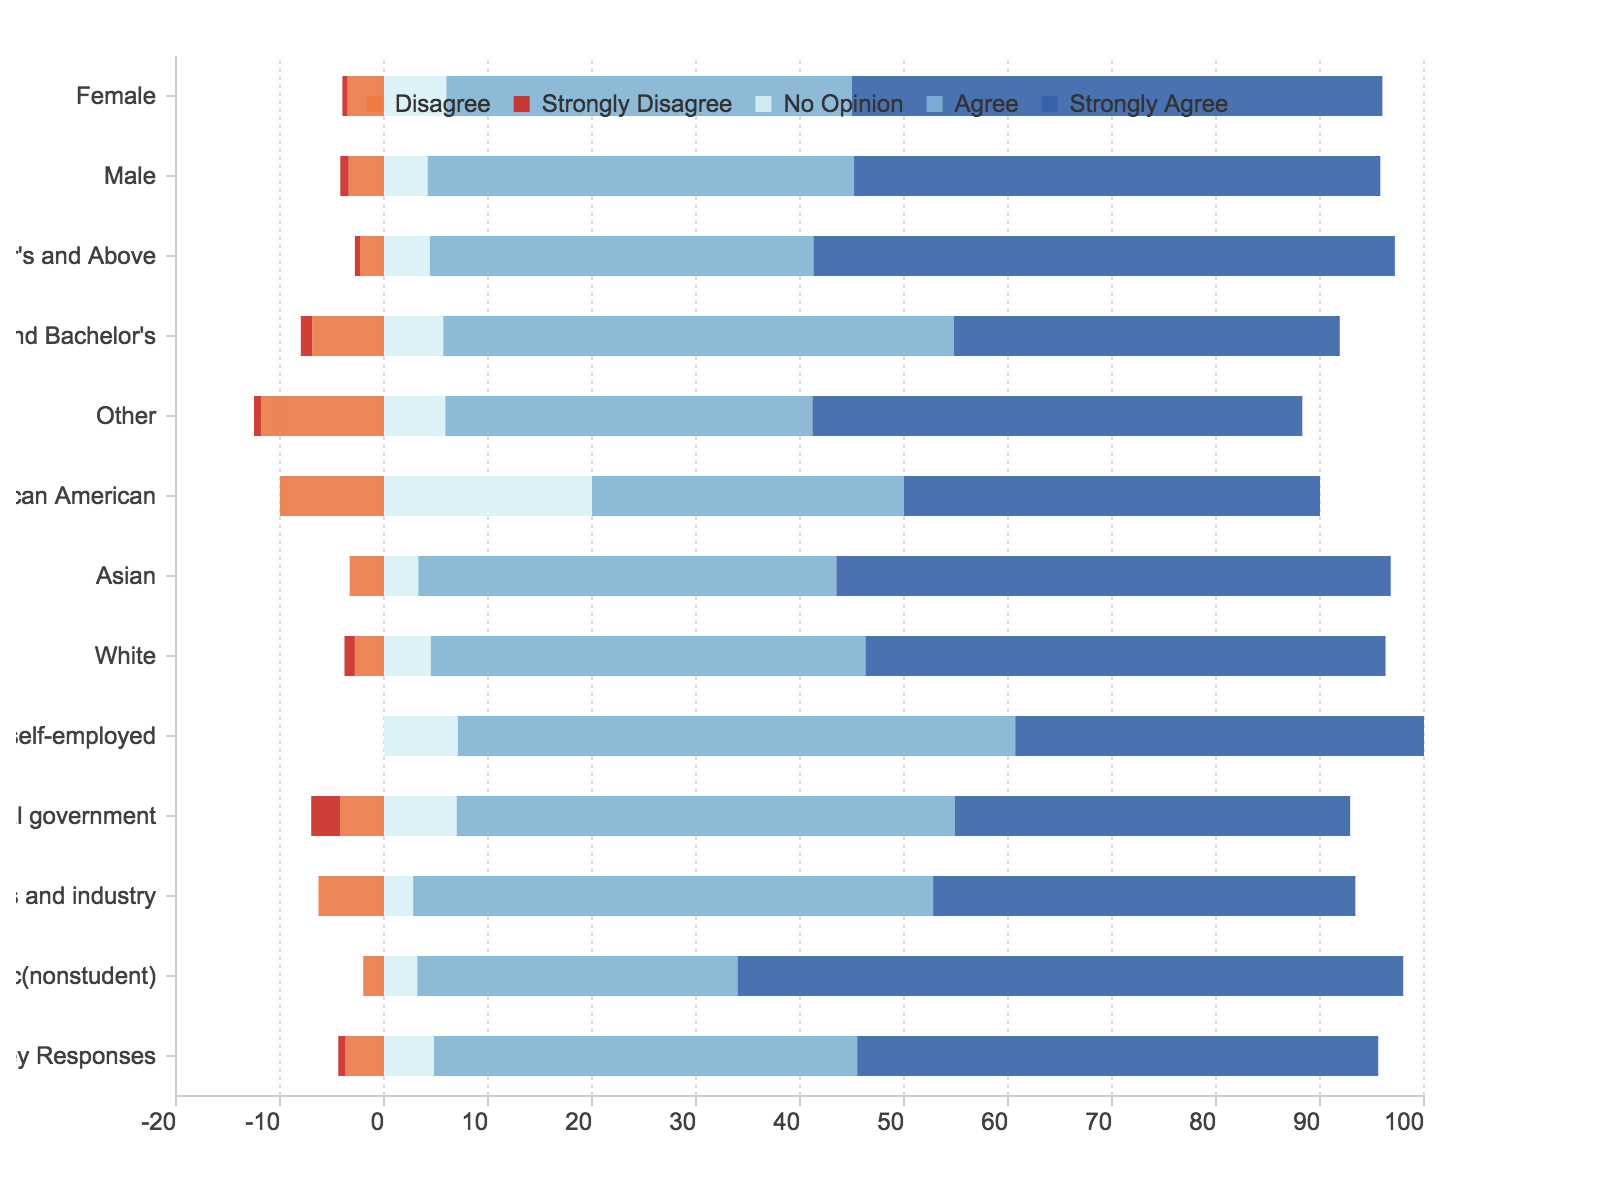
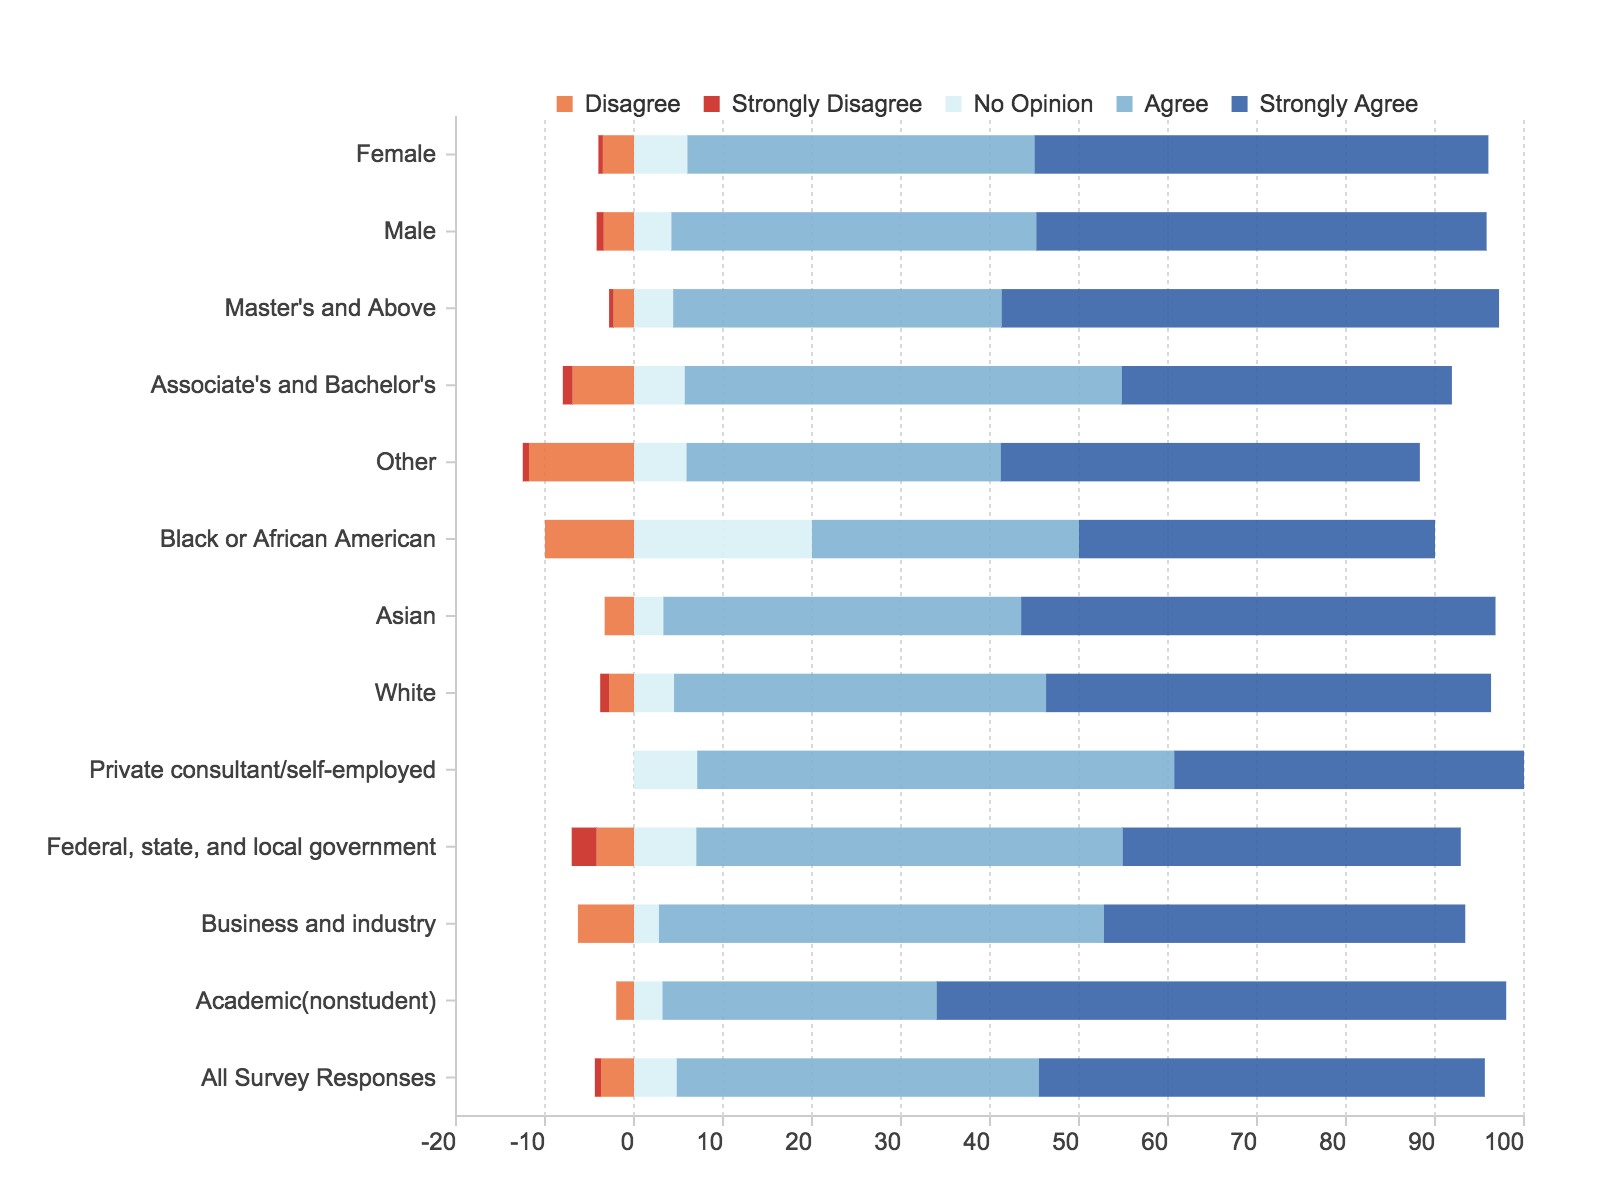
fixing padding, etc.

diff --git a/demos/index.html b/demos/index.html
@@ -13,8 +13,8 @@
   /* global GLOBAL_DATA */
   /* eslint-disable no-unused-vars */
   const GLOBAL_DATA = {
-    plotById: { 'area-stack-plot': { id: 'area-stack-plot', name: 'Area Stack Plot', path: './area-stack.html', thumbnail: './assets/screenshots/800x600/area-stack.png' }, 'area-plot': { id: 'area-plot', name: 'Area Plot', path: './area.html', thumbnail: './assets/screenshots/800x600/area.png' }, 'stream-graph': { id: 'stream-graph', name: 'Stream Graph', path: './stream-graph.html', thumbnail: './assets/screenshots/800x600/stream-graph.png' }, 'bar-dodge-no-margin': { id: 'bar-dodge-no-margin', name: 'Bar Dodge No Margin', path: './bar-dodge-no-margin.html', thumbnail: './assets/screenshots/800x600/bar-dodge-no-margin.png' }, 'bar-dodge-plot': { id: 'bar-dodge-plot', name: 'Bar Dodge Plot', path: './bar-dodge.html', thumbnail: './assets/screenshots/800x600/bar-dodge.png' }, 'bar-stack-percent': { id: 'bar-stack-percent', name: 'Bar Stack Percent', path: './bar-stack-percent.html', thumbnail: './assets/screenshots/800x600/bar-stack-percent.png' }, 'bar-stack-plot': { id: 'bar-stack-plot', name: 'Bar Stack Plot', path: './bar-stack.html', thumbnail: './assets/screenshots/800x600/bar-stack.png' }, 'bar-plot': { id: 'bar-plot', name: 'Bar Plot', path: './bar.html', thumbnail: './assets/screenshots/800x600/bar.png' }, 'daily-temperatures-in-boston': { id: 'daily-temperatures-in-boston', name: 'Daily Temperatures in Boston', path: './daily-temperatures-in-boston.html', thumbnail: './assets/screenshots/800x600/daily-temperatures-in-boston.png' }, 'histogram-binning': { id: 'histogram-binning', name: 'Histogram Binning', path: './histogram-binning.html', thumbnail: './assets/screenshots/800x600/histogram-binning.png' }, 'interval-with-labels': { id: 'interval-with-labels', name: 'Interval with labels', path: './interval-labels.html', thumbnail: './assets/screenshots/800x600/interval-labels.png' }, 'polar-interval-plot': { id: 'polar-interval-plot', name: 'Polar Interval Plot', path: './polar.html', thumbnail: './assets/screenshots/800x600/polar.png' }, 'rose-plot': { id: 'rose-plot', name: 'Rose Plot', path: './rose.html', thumbnail: './assets/screenshots/800x600/rose.png' }, 'triangle-column-plot': { id: 'triangle-column-plot', name: 'Triangle Column Plot', path: './triangle-column.html', thumbnail: './assets/screenshots/800x600/triangle-column.png' }, 'day-hour-heatmap': { id: 'day-hour-heatmap', name: 'Day/Hour Heatmap', path: './day-hour-heatmap.html', thumbnail: './assets/screenshots/800x600/day-hour-heatmap.png' }, 'geo-projections': { id: 'geo-projections', name: 'Geo Projections', path: './geo-projections.html', thumbnail: './assets/screenshots/800x600/geo-projections.png' }, 'hexagon-binning': { id: 'hexagon-binning', name: 'Hexagon Binning', path: './hexagon-binning.html', thumbnail: './assets/screenshots/800x600/hexagon-binning.png' }, 'color-map': { id: 'color-map', name: 'Color Map ', path: './polygon.html', thumbnail: './assets/screenshots/800x600/polygon.png' }, 'rectangle-binning': { id: 'rectangle-binning', name: 'Rectangle Binning', path: './rectangle-binning.html', thumbnail: './assets/screenshots/800x600/rectangle-binning.png' }, 'treemap-tiles': { id: 'treemap-tiles', name: 'Treemap Tiles', path: './treemap-tiles.html', thumbnail: './assets/screenshots/800x600/treemap-tiles.png' }, 'double-line-plot': { id: 'double-line-plot', name: 'Double Line Plot', path: './double-line.html', thumbnail: './assets/screenshots/800x600/double-line.png' }, 'line-plot-with-time': { id: 'line-plot-with-time', name: 'Line Plot with Time', path: './line-time.html', thumbnail: './assets/screenshots/800x600/line-time.png' }, 'line-plot': { id: 'line-plot', name: 'Line Plot', path: './line.html', thumbnail: './assets/screenshots/800x600/line.png' }, 'smooth-line-plot': { id: 'smooth-line-plot', name: 'Smooth Line Plot', path: './smooth-line.html', thumbnail: './assets/screenshots/800x600/smooth-line.png' }, 'funnel-plot': { id: 'funnel-plot', name: 'Funnel Plot', path: './funnel.html', thumbnail: './assets/screenshots/800x600/funnel.png' }, helix: { id: 'helix', name: 'Helix', path: './helix.html', thumbnail: './assets/screenshots/800x600/helix.png' }, 'multiple-plot': { id: 'multiple-plot', name: 'Multiple Plot', path: './multiple-chart.html', thumbnail: './assets/screenshots/800x600/multiple-chart.png' }, 'pie-ring-plot': { id: 'pie-ring-plot', name: 'Pie Ring Plot', path: './pie-ring.html', thumbnail: './assets/screenshots/800x600/pie-ring.png' }, 'pie-plot': { id: 'pie-plot', name: 'Pie Plot', path: './pie.html', thumbnail: './assets/screenshots/800x600/pie.png' }, 'radar-plot': { id: 'radar-plot', name: 'Radar Plot', path: './radar.html', thumbnail: './assets/screenshots/800x600/radar.png' }, 'scatter-plot': { id: 'scatter-plot', name: 'Scatter Plot', path: './scatter.html', thumbnail: './assets/screenshots/800x600/scatter.png' }, 'tag-cloud': { id: 'tag-cloud', name: 'Tag Cloud', path: './tag-cloud.html', thumbnail: './assets/screenshots/800x600/tag-cloud.png' } },
-    plotsByGeometry: { area: [{ id: 'area-stack-plot', name: 'Area Stack Plot', path: './area-stack.html', thumbnail: './assets/screenshots/800x600/area-stack.png' }, { id: 'area-plot', name: 'Area Plot', path: './area.html', thumbnail: './assets/screenshots/800x600/area.png' }, { id: 'stream-graph', name: 'Stream Graph', path: './stream-graph.html', thumbnail: './assets/screenshots/800x600/stream-graph.png' }], interval: [{ id: 'bar-dodge-no-margin', name: 'Bar Dodge No Margin', path: './bar-dodge-no-margin.html', thumbnail: './assets/screenshots/800x600/bar-dodge-no-margin.png' }, { id: 'bar-dodge-plot', name: 'Bar Dodge Plot', path: './bar-dodge.html', thumbnail: './assets/screenshots/800x600/bar-dodge.png' }, { id: 'bar-stack-percent', name: 'Bar Stack Percent', path: './bar-stack-percent.html', thumbnail: './assets/screenshots/800x600/bar-stack-percent.png' }, { id: 'bar-stack-plot', name: 'Bar Stack Plot', path: './bar-stack.html', thumbnail: './assets/screenshots/800x600/bar-stack.png' }, { id: 'bar-plot', name: 'Bar Plot', path: './bar.html', thumbnail: './assets/screenshots/800x600/bar.png' }, { id: 'daily-temperatures-in-boston', name: 'Daily Temperatures in Boston', path: './daily-temperatures-in-boston.html', thumbnail: './assets/screenshots/800x600/daily-temperatures-in-boston.png' }, { id: 'histogram-binning', name: 'Histogram Binning', path: './histogram-binning.html', thumbnail: './assets/screenshots/800x600/histogram-binning.png' }, { id: 'interval-with-labels', name: 'Interval with labels', path: './interval-labels.html', thumbnail: './assets/screenshots/800x600/interval-labels.png' }, { id: 'polar-interval-plot', name: 'Polar Interval Plot', path: './polar.html', thumbnail: './assets/screenshots/800x600/polar.png' }, { id: 'rose-plot', name: 'Rose Plot', path: './rose.html', thumbnail: './assets/screenshots/800x600/rose.png' }, { id: 'triangle-column-plot', name: 'Triangle Column Plot', path: './triangle-column.html', thumbnail: './assets/screenshots/800x600/triangle-column.png' }], polygon: [{ id: 'day-hour-heatmap', name: 'Day/Hour Heatmap', path: './day-hour-heatmap.html', thumbnail: './assets/screenshots/800x600/day-hour-heatmap.png' }, { id: 'geo-projections', name: 'Geo Projections', path: './geo-projections.html', thumbnail: './assets/screenshots/800x600/geo-projections.png' }, { id: 'hexagon-binning', name: 'Hexagon Binning', path: './hexagon-binning.html', thumbnail: './assets/screenshots/800x600/hexagon-binning.png' }, { id: 'color-map', name: 'Color Map ', path: './polygon.html', thumbnail: './assets/screenshots/800x600/polygon.png' }, { id: 'rectangle-binning', name: 'Rectangle Binning', path: './rectangle-binning.html', thumbnail: './assets/screenshots/800x600/rectangle-binning.png' }, { id: 'treemap-tiles', name: 'Treemap Tiles', path: './treemap-tiles.html', thumbnail: './assets/screenshots/800x600/treemap-tiles.png' }], line: [{ id: 'double-line-plot', name: 'Double Line Plot', path: './double-line.html', thumbnail: './assets/screenshots/800x600/double-line.png' }, { id: 'line-plot-with-time', name: 'Line Plot with Time', path: './line-time.html', thumbnail: './assets/screenshots/800x600/line-time.png' }, { id: 'line-plot', name: 'Line Plot', path: './line.html', thumbnail: './assets/screenshots/800x600/line.png' }, { id: 'smooth-line-plot', name: 'Smooth Line Plot', path: './smooth-line.html', thumbnail: './assets/screenshots/800x600/smooth-line.png' }], funnel: [{ id: 'funnel-plot', name: 'Funnel Plot', path: './funnel.html', thumbnail: './assets/screenshots/800x600/funnel.png' }], helix: [{ id: 'helix', name: 'Helix', path: './helix.html', thumbnail: './assets/screenshots/800x600/helix.png' }], multiple: [{ id: 'multiple-plot', name: 'Multiple Plot', path: './multiple-chart.html', thumbnail: './assets/screenshots/800x600/multiple-chart.png' }], pie: [{ id: 'pie-ring-plot', name: 'Pie Ring Plot', path: './pie-ring.html', thumbnail: './assets/screenshots/800x600/pie-ring.png' }, { id: 'pie-plot', name: 'Pie Plot', path: './pie.html', thumbnail: './assets/screenshots/800x600/pie.png' }], radar: [{ id: 'radar-plot', name: 'Radar Plot', path: './radar.html', thumbnail: './assets/screenshots/800x600/radar.png' }], point: [{ id: 'scatter-plot', name: 'Scatter Plot', path: './scatter.html', thumbnail: './assets/screenshots/800x600/scatter.png' }, { id: 'tag-cloud', name: 'Tag Cloud', path: './tag-cloud.html', thumbnail: './assets/screenshots/800x600/tag-cloud.png' }] }
+    plotById: { 'area-stack-plot': { id: 'area-stack-plot', name: 'Area Stack Plot', path: './area-stack.html', thumbnail: './assets/screenshots/800x600/area-stack.png' }, 'area-plot': { id: 'area-plot', name: 'Area Plot', path: './area.html', thumbnail: './assets/screenshots/800x600/area.png' }, 'stream-graph': { id: 'stream-graph', name: 'Stream Graph', path: './stream-graph.html', thumbnail: './assets/screenshots/800x600/stream-graph.png' }, 'bar-dodge-no-margin': { id: 'bar-dodge-no-margin', name: 'Bar Dodge No Margin', path: './bar-dodge-no-margin.html', thumbnail: './assets/screenshots/800x600/bar-dodge-no-margin.png' }, 'bar-dodge-plot': { id: 'bar-dodge-plot', name: 'Bar Dodge Plot', path: './bar-dodge.html', thumbnail: './assets/screenshots/800x600/bar-dodge.png' }, 'bar-stack-percent': { id: 'bar-stack-percent', name: 'Bar Stack Percent', path: './bar-stack-percent.html', thumbnail: './assets/screenshots/800x600/bar-stack-percent.png' }, 'bar-stack-plot': { id: 'bar-stack-plot', name: 'Bar Stack Plot', path: './bar-stack.html', thumbnail: './assets/screenshots/800x600/bar-stack.png' }, 'bar-plot': { id: 'bar-plot', name: 'Bar Plot', path: './bar.html', thumbnail: './assets/screenshots/800x600/bar.png' }, 'daily-temperatures-in-boston': { id: 'daily-temperatures-in-boston', name: 'Daily Temperatures in Boston', path: './daily-temperatures-in-boston.html', thumbnail: './assets/screenshots/800x600/daily-temperatures-in-boston.png' }, 'histogram-binning': { id: 'histogram-binning', name: 'Histogram Binning', path: './histogram-binning.html', thumbnail: './assets/screenshots/800x600/histogram-binning.png' }, 'interval-with-labels': { id: 'interval-with-labels', name: 'Interval with labels', path: './interval-labels.html', thumbnail: './assets/screenshots/800x600/interval-labels.png' }, 'polar-interval-plot': { id: 'polar-interval-plot', name: 'Polar Interval Plot', path: './polar.html', thumbnail: './assets/screenshots/800x600/polar.png' }, 'rose-plot': { id: 'rose-plot', name: 'Rose Plot', path: './rose.html', thumbnail: './assets/screenshots/800x600/rose.png' }, 'triangle-column-plot': { id: 'triangle-column-plot', name: 'Triangle Column Plot', path: './triangle-column.html', thumbnail: './assets/screenshots/800x600/triangle-column.png' }, 'color-map': { id: 'color-map', name: 'Color Map', path: './color-map.html', thumbnail: './assets/screenshots/800x600/color-map.png' }, 'day-hour-heatmap': { id: 'day-hour-heatmap', name: 'Day/Hour Heatmap', path: './day-hour-heatmap.html', thumbnail: './assets/screenshots/800x600/day-hour-heatmap.png' }, 'geo-projections': { id: 'geo-projections', name: 'Geo Projections', path: './geo-projections.html', thumbnail: './assets/screenshots/800x600/geo-projections.png' }, 'hexagon-binning': { id: 'hexagon-binning', name: 'Hexagon Binning', path: './hexagon-binning.html', thumbnail: './assets/screenshots/800x600/hexagon-binning.png' }, 'rectangle-binning': { id: 'rectangle-binning', name: 'Rectangle Binning', path: './rectangle-binning.html', thumbnail: './assets/screenshots/800x600/rectangle-binning.png' }, 'treemap-tiles': { id: 'treemap-tiles', name: 'Treemap Tiles', path: './treemap-tiles.html', thumbnail: './assets/screenshots/800x600/treemap-tiles.png' }, 'double-line-plot': { id: 'double-line-plot', name: 'Double Line Plot', path: './double-line.html', thumbnail: './assets/screenshots/800x600/double-line.png' }, 'line-plot-with-time': { id: 'line-plot-with-time', name: 'Line Plot with Time', path: './line-time.html', thumbnail: './assets/screenshots/800x600/line-time.png' }, 'line-plot': { id: 'line-plot', name: 'Line Plot', path: './line.html', thumbnail: './assets/screenshots/800x600/line.png' }, 'smooth-line-plot': { id: 'smooth-line-plot', name: 'Smooth Line Plot', path: './smooth-line.html', thumbnail: './assets/screenshots/800x600/smooth-line.png' }, 'funnel-plot': { id: 'funnel-plot', name: 'Funnel Plot', path: './funnel.html', thumbnail: './assets/screenshots/800x600/funnel.png' }, helix: { id: 'helix', name: 'Helix', path: './helix.html', thumbnail: './assets/screenshots/800x600/helix.png' }, 'multiple-plot': { id: 'multiple-plot', name: 'Multiple Plot', path: './multiple-chart.html', thumbnail: './assets/screenshots/800x600/multiple-chart.png' }, 'pie-ring-plot': { id: 'pie-ring-plot', name: 'Pie Ring Plot', path: './pie-ring.html', thumbnail: './assets/screenshots/800x600/pie-ring.png' }, 'pie-plot': { id: 'pie-plot', name: 'Pie Plot', path: './pie.html', thumbnail: './assets/screenshots/800x600/pie.png' }, 'radar-plot': { id: 'radar-plot', name: 'Radar Plot', path: './radar.html', thumbnail: './assets/screenshots/800x600/radar.png' }, 'scatter-plot': { id: 'scatter-plot', name: 'Scatter Plot', path: './scatter.html', thumbnail: './assets/screenshots/800x600/scatter.png' }, 'tag-cloud': { id: 'tag-cloud', name: 'Tag Cloud', path: './tag-cloud.html', thumbnail: './assets/screenshots/800x600/tag-cloud.png' } },
+    plotsByGeometry: { area: [{ id: 'area-stack-plot', name: 'Area Stack Plot', path: './area-stack.html', thumbnail: './assets/screenshots/800x600/area-stack.png' }, { id: 'area-plot', name: 'Area Plot', path: './area.html', thumbnail: './assets/screenshots/800x600/area.png' }, { id: 'stream-graph', name: 'Stream Graph', path: './stream-graph.html', thumbnail: './assets/screenshots/800x600/stream-graph.png' }], interval: [{ id: 'bar-dodge-no-margin', name: 'Bar Dodge No Margin', path: './bar-dodge-no-margin.html', thumbnail: './assets/screenshots/800x600/bar-dodge-no-margin.png' }, { id: 'bar-dodge-plot', name: 'Bar Dodge Plot', path: './bar-dodge.html', thumbnail: './assets/screenshots/800x600/bar-dodge.png' }, { id: 'bar-stack-percent', name: 'Bar Stack Percent', path: './bar-stack-percent.html', thumbnail: './assets/screenshots/800x600/bar-stack-percent.png' }, { id: 'bar-stack-plot', name: 'Bar Stack Plot', path: './bar-stack.html', thumbnail: './assets/screenshots/800x600/bar-stack.png' }, { id: 'bar-plot', name: 'Bar Plot', path: './bar.html', thumbnail: './assets/screenshots/800x600/bar.png' }, { id: 'daily-temperatures-in-boston', name: 'Daily Temperatures in Boston', path: './daily-temperatures-in-boston.html', thumbnail: './assets/screenshots/800x600/daily-temperatures-in-boston.png' }, { id: 'histogram-binning', name: 'Histogram Binning', path: './histogram-binning.html', thumbnail: './assets/screenshots/800x600/histogram-binning.png' }, { id: 'interval-with-labels', name: 'Interval with labels', path: './interval-labels.html', thumbnail: './assets/screenshots/800x600/interval-labels.png' }, { id: 'polar-interval-plot', name: 'Polar Interval Plot', path: './polar.html', thumbnail: './assets/screenshots/800x600/polar.png' }, { id: 'rose-plot', name: 'Rose Plot', path: './rose.html', thumbnail: './assets/screenshots/800x600/rose.png' }, { id: 'triangle-column-plot', name: 'Triangle Column Plot', path: './triangle-column.html', thumbnail: './assets/screenshots/800x600/triangle-column.png' }], polygon: [{ id: 'color-map', name: 'Color Map', path: './color-map.html', thumbnail: './assets/screenshots/800x600/color-map.png' }, { id: 'day-hour-heatmap', name: 'Day/Hour Heatmap', path: './day-hour-heatmap.html', thumbnail: './assets/screenshots/800x600/day-hour-heatmap.png' }, { id: 'geo-projections', name: 'Geo Projections', path: './geo-projections.html', thumbnail: './assets/screenshots/800x600/geo-projections.png' }, { id: 'hexagon-binning', name: 'Hexagon Binning', path: './hexagon-binning.html', thumbnail: './assets/screenshots/800x600/hexagon-binning.png' }, { id: 'rectangle-binning', name: 'Rectangle Binning', path: './rectangle-binning.html', thumbnail: './assets/screenshots/800x600/rectangle-binning.png' }, { id: 'treemap-tiles', name: 'Treemap Tiles', path: './treemap-tiles.html', thumbnail: './assets/screenshots/800x600/treemap-tiles.png' }], line: [{ id: 'double-line-plot', name: 'Double Line Plot', path: './double-line.html', thumbnail: './assets/screenshots/800x600/double-line.png' }, { id: 'line-plot-with-time', name: 'Line Plot with Time', path: './line-time.html', thumbnail: './assets/screenshots/800x600/line-time.png' }, { id: 'line-plot', name: 'Line Plot', path: './line.html', thumbnail: './assets/screenshots/800x600/line.png' }, { id: 'smooth-line-plot', name: 'Smooth Line Plot', path: './smooth-line.html', thumbnail: './assets/screenshots/800x600/smooth-line.png' }], funnel: [{ id: 'funnel-plot', name: 'Funnel Plot', path: './funnel.html', thumbnail: './assets/screenshots/800x600/funnel.png' }], helix: [{ id: 'helix', name: 'Helix', path: './helix.html', thumbnail: './assets/screenshots/800x600/helix.png' }], multiple: [{ id: 'multiple-plot', name: 'Multiple Plot', path: './multiple-chart.html', thumbnail: './assets/screenshots/800x600/multiple-chart.png' }], pie: [{ id: 'pie-ring-plot', name: 'Pie Ring Plot', path: './pie-ring.html', thumbnail: './assets/screenshots/800x600/pie-ring.png' }, { id: 'pie-plot', name: 'Pie Plot', path: './pie.html', thumbnail: './assets/screenshots/800x600/pie.png' }], radar: [{ id: 'radar-plot', name: 'Radar Plot', path: './radar.html', thumbnail: './assets/screenshots/800x600/radar.png' }], point: [{ id: 'scatter-plot', name: 'Scatter Plot', path: './scatter.html', thumbnail: './assets/screenshots/800x600/scatter.png' }, { id: 'tag-cloud', name: 'Tag Cloud', path: './tag-cloud.html', thumbnail: './assets/screenshots/800x600/tag-cloud.png' }] }
   };
 </script>
   <div class="main">
@@ -71,13 +71,13 @@
     </h3>
     <ul class="sub-menus">
       <li class="sub-menu-item">
+            <a href="#/color-map">Color Map</a>
+          </li><li class="sub-menu-item">
             <a href="#/day-hour-heatmap">Day/Hour Heatmap</a>
           </li><li class="sub-menu-item">
             <a href="#/geo-projections">Geo Projections</a>
           </li><li class="sub-menu-item">
             <a href="#/hexagon-binning">Hexagon Binning</a>
-          </li><li class="sub-menu-item">
-            <a href="#/color-map">Color Map </a>
           </li><li class="sub-menu-item">
             <a href="#/rectangle-binning">Rectangle Binning</a>
           </li><li class="sub-menu-item">
@@ -249,6 +249,11 @@
     </h3>
     <ul class="thumbnails-container">
       <li class="thumbnail-item">
+            <a href="#/color-map">
+              <img class="thumbnail" src="./assets/screenshots/800x600/color-map.png">
+              <div class="description">Color Map</div>
+            </a>
+          </li><li class="thumbnail-item">
             <a href="#/day-hour-heatmap">
               <img class="thumbnail" src="./assets/screenshots/800x600/day-hour-heatmap.png">
               <div class="description">Day/Hour Heatmap</div>
@@ -262,11 +267,6 @@
             <a href="#/hexagon-binning">
               <img class="thumbnail" src="./assets/screenshots/800x600/hexagon-binning.png">
               <div class="description">Hexagon Binning</div>
-            </a>
-          </li><li class="thumbnail-item">
-            <a href="#/color-map">
-              <img class="thumbnail" src="./assets/screenshots/800x600/polygon.png">
-              <div class="description">Color Map </div>
             </a>
           </li><li class="thumbnail-item">
             <a href="#/rectangle-binning">

diff --git a/demos/color-map.html b/demos/color-map.html
@@ -7,7 +7,7 @@
   <meta http-equiv="X-UA-Compatible" content="ie=edge">
   <meta name="geometry" content="polygon">
   <link rel="stylesheet" href="./assets/common.css">
-  <title>Color Map </title>
+  <title>Color Map</title>
 </head>
 
 <body>
@@ -47,7 +47,8 @@
       animate: false,
       container: 'canvas',
       forceFit: true,
-      height: window.innerHeight
+      height: window.innerHeight,
+      padding: [ 30, 120, 50, 100 ]
     });
     const defs = {
       from: {

diff --git a/demos/bar-stack.html b/demos/bar-stack.html
@@ -95,7 +95,8 @@
       animate: false,
       container: 'canvas',
       forceFit: true,
-      height: window.innerHeight
+      height: window.innerHeight,
+      padding: [ 50, 30, 50, 220 ]
     });
     chart.source(data, {
       value: {

diff --git a/demos/daily-temperatures-in-boston.html b/demos/daily-temperatures-in-boston.html
@@ -65,7 +65,8 @@
         animate: false,
         container: 'canvas',
         forceFit: true,
-        height: window.innerHeight
+        height: window.innerHeight,
+        padding: [ 50, 0, 120 ]
       });
 
       chart.source(dv, {
